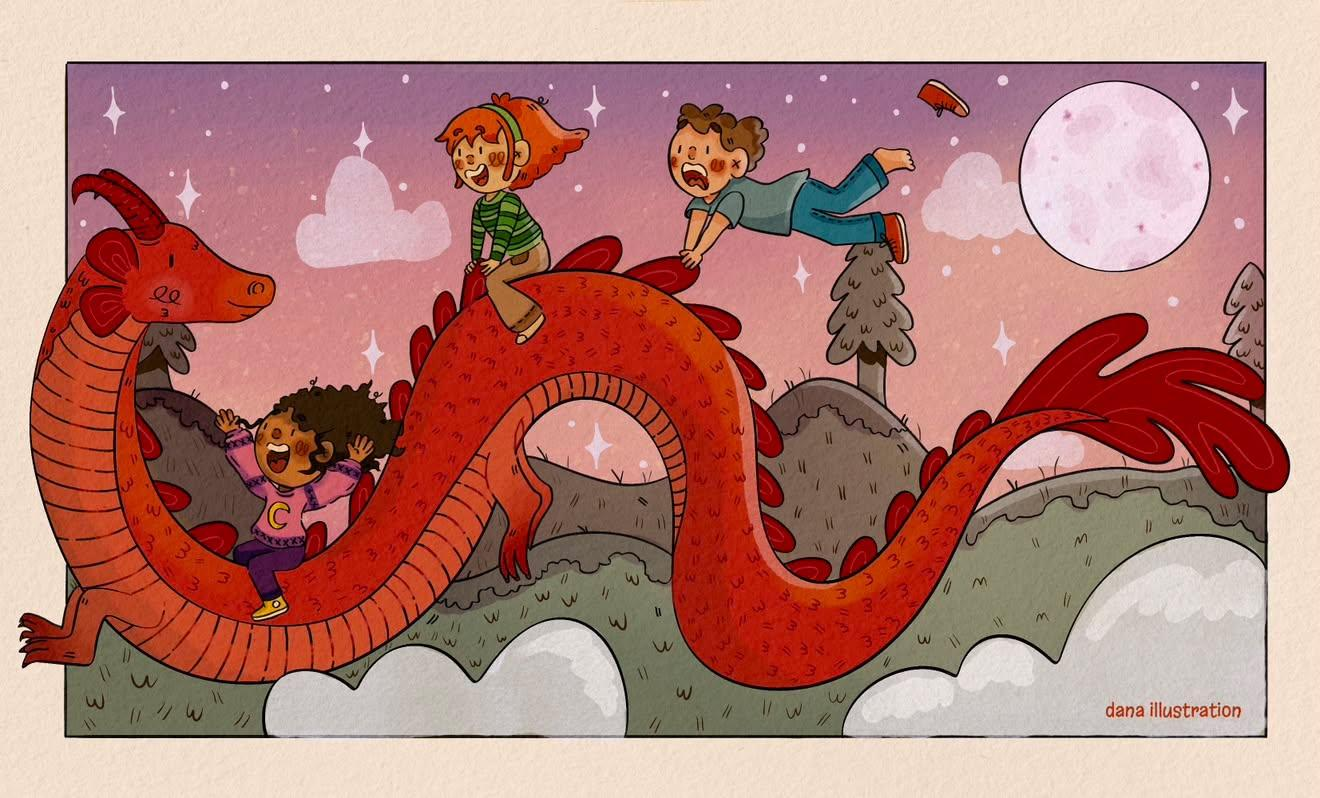
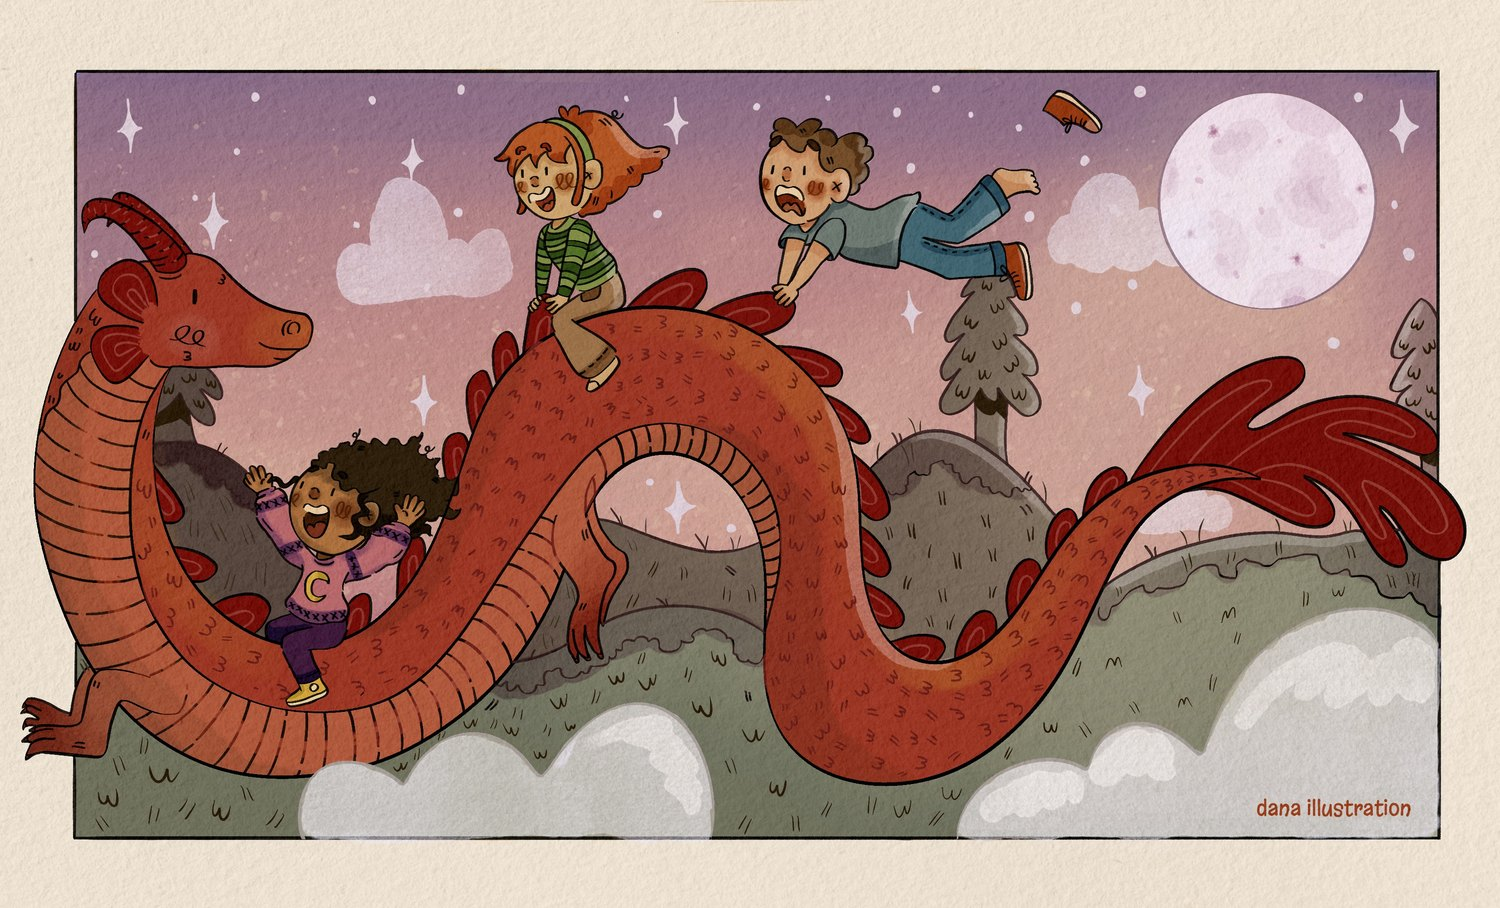
Galerie : 16 illustrations de Dana à la place des pages du portfolio (#61)
- Intègre les 16 œuvres envoyées : dragon, baleine, planche Patina,
  poissons de verre, Yéti, Mira (couverture et parade), heure du livre,
  tigre du temple, ours polaire, héron, cygne, messager sagittaire,
  Madao & Bond, Shadow et la carte d'anniversaire.
- Chaque tableau reçoit son titre et son texte de cadre.
- Les versions haute définition remplacent les anciennes du dragon, de
  la baleine et de la planche Patina, ainsi que les prints de la
  boutique qui servaient de bouche-trou.
- Les pages scannées du portfolio PDF sortent de la galerie et du
  portfolio ; le lien de téléchargement du PDF reste en place.
- Images redimensionnées à 1500 px et réenregistrées en JPEG progressif
  (aucune retouche du dessin), fichiers d'origine supprimés.

Claude-Session: https://claude.ai/code/session_01BtaB1jaWDtbsoScgb48y47

diff --git a/index.html b/index.html
@@ -18,7 +18,7 @@
   <link rel="preconnect" href="https://fonts.gstatic.com" crossorigin>
   <link href="https://fonts.googleapis.com/css2?family=Jost:wght@300;400;500;600&display=swap" rel="stylesheet">
   <link href="https://api.fontshare.com/v2/css?f%5B%5D=comico@400&display=swap" rel="stylesheet">
-  <link rel="stylesheet" href="styles.css?v=29">
+  <link rel="stylesheet" href="styles.css?v=30">
 </head>
 <body class="page-home">
 
@@ -90,41 +90,53 @@
 
     <div class="museum">
       <div class="museum-rooms">
-          <button class="artwork" type="button" data-title="Le vol du dragon" data-desc="Trois enfants chevauchent un immense dragon rouge au-dessus des montagnes, sous une lune rose. Une illustration sur le goût de l&#x27;aventure et le vertige joyeux des premières fois." data-full="photo/illu-dragon.jpg">
+          <button class="artwork" type="button" data-title="Le vol du dragon" data-desc="Trois enfants chevauchent un dragon rouge au-dessus des montagnes, sous une lune immense. L&#x27;un d&#x27;eux a déjà perdu une chaussure." data-full="photo/illu-dragon.jpg">
             <span class="artwork-frame"><img src="photo/illu-dragon.jpg" alt="Le vol du dragon" loading="lazy"></span>
           </button>
-          <button class="artwork" type="button" data-title="La baleine et le bateau" data-desc="Deux enfants saluent une baleine bleue qui bondit au-dessus de leur barque. Un instant suspendu entre le ciel et le monde du dessous, peuplé de poissons colorés." data-full="photo/illu-baleine.jpg">
-            <span class="artwork-frame"><img src="photo/illu-baleine.jpg" alt="La baleine et le bateau" loading="lazy"></span>
+          <button class="artwork" type="button" data-title="La baleine" data-desc="Deux enfants prennent la mer sur un petit bateau-maison. Une baleine bleue saute juste au-dessus d&#x27;eux, et ils n&#x27;en reviennent pas." data-full="photo/illu-baleine.jpg">
+            <span class="artwork-frame"><img src="photo/illu-baleine.jpg" alt="La baleine" loading="lazy"></span>
           </button>
-          <button class="artwork" type="button" data-title="Bienvenue à Patina" data-desc="Une planche de bande dessinée : l&#x27;arrivée dans un monde où la magie est partout, guidée par un étrange compagnon rouge." data-full="photo/illu-bd-patina.jpg">
+          <button class="artwork" type="button" data-title="Bienvenue à Patina" data-desc="Une planche de bande dessinée : deux voyageurs arrivent devant le portail de Patina, un monde où la magie est partout — et où il vaut mieux faire attention." data-full="photo/illu-bd-patina.jpg">
             <span class="artwork-frame"><img src="photo/illu-bd-patina.jpg" alt="Bienvenue à Patina" loading="lazy"></span>
           </button>
-          <button class="artwork" type="button" data-title="Le héron" data-desc="Un héron illustré à l&#x27;aquarelle, tout en verticalité et en douceur. Disponible en print dans la boutique." data-full="photo/shop/print-heron.jpg">
-            <span class="artwork-frame"><img src="photo/shop/print-heron.jpg" alt="Le héron" loading="lazy"></span>
+          <button class="artwork" type="button" data-title="Le monde des poissons de verre" data-desc="Couverture d&#x27;album jeunesse. Une petite fille s&#x27;accroche à la queue d&#x27;un poisson géant, dans un océan qui ressemble à un ciel." data-full="photo/illu-poissons-de-verre.jpg">
+            <span class="artwork-frame"><img src="photo/illu-poissons-de-verre.jpg" alt="Le monde des poissons de verre" loading="lazy"></span>
           </button>
-          <button class="artwork" type="button" data-title="Le cygne" data-desc="Un cygne aux lignes fines, dans une palette tendre. Disponible en print dans la boutique." data-full="photo/shop/print-cygne.jpg">
-            <span class="artwork-frame"><img src="photo/shop/print-cygne.jpg" alt="Le cygne" loading="lazy"></span>
+          <button class="artwork" type="button" data-title="À la recherche du Yéti" data-desc="Couverture d&#x27;album jeunesse. Pour beaucoup le yéti n&#x27;est qu&#x27;une légende — pas pour Perle et Charles, qui sont prêts à tout pour le prouver." data-full="photo/illu-yeti.jpg">
+            <span class="artwork-frame"><img src="photo/illu-yeti.jpg" alt="À la recherche du Yéti" loading="lazy"></span>
           </button>
-          <button class="artwork" type="button" data-title="Le canard" data-desc="Un canard tout rond, croqué avec humour et tendresse. Disponible en print dans la boutique." data-full="photo/shop/print-canard.jpg">
-            <span class="artwork-frame"><img src="photo/shop/print-canard.jpg" alt="Le canard" loading="lazy"></span>
+          <button class="artwork" type="button" data-title="Mira, à l&#x27;aventure" data-desc="Couverture d&#x27;album. Mira part en exploration avec son tigre, et rien ne semble pouvoir les arrêter." data-full="photo/illu-mira-aventure.jpg">
+            <span class="artwork-frame"><img src="photo/illu-mira-aventure.jpg" alt="Mira, à l&#x27;aventure" loading="lazy"></span>
           </button>
-          <button class="artwork" type="button" data-title="Le messager sagittaire" data-desc="Un oiseau élégant aux longues pattes, mon préféré à dessiner. Disponible en print dans la boutique." data-full="photo/shop/print-messager-sagittaire.jpg">
-            <span class="artwork-frame"><img src="photo/shop/print-messager-sagittaire.jpg" alt="Le messager sagittaire" loading="lazy"></span>
+          <button class="artwork" type="button" data-title="La parade" data-desc="Éléphant, guépard, ara, singe, manchot : toute la troupe suit Mira en file indienne sur la colline, au coucher du soleil." data-full="photo/illu-mira-parade.jpg">
+            <span class="artwork-frame"><img src="photo/illu-mira-parade.jpg" alt="La parade" loading="lazy"></span>
           </button>
-          <button class="artwork" type="button" data-title="Mira — character design" data-desc="Recherches de personnage : expressions, postures et variations autour de Mira." data-full="photo/portfolio-pages/portfolio-03.jpg">
-            <span class="artwork-frame"><img src="photo/portfolio-pages/portfolio-03.jpg" alt="Mira — character design" loading="lazy"></span>
+          <button class="artwork" type="button" data-title="L&#x27;heure du livre" data-desc="Une histoire lue à voix haute, et tout le monde s&#x27;installe pour écouter : l&#x27;ours, le tigre, le renard, le chat et l&#x27;âne." data-full="photo/illu-heure-du-livre.jpg">
+            <span class="artwork-frame"><img src="photo/illu-heure-du-livre.jpg" alt="L&#x27;heure du livre" loading="lazy"></span>
           </button>
-          <button class="artwork" type="button" data-title="Couvertures de livre" data-desc="Projets de couvertures pour la littérature jeunesse." data-full="photo/portfolio-pages/portfolio-04.jpg">
-            <span class="artwork-frame"><img src="photo/portfolio-pages/portfolio-04.jpg" alt="Couvertures de livre" loading="lazy"></span>
+          <button class="artwork" type="button" data-title="Le tigre du temple" data-desc="Un tigre descend boire au bassin d&#x27;un temple envahi par la jungle, entre les nénuphars et les pierres tièdes." data-full="photo/illu-tigre-temple.jpg">
+            <span class="artwork-frame"><img src="photo/illu-tigre-temple.jpg" alt="Le tigre du temple" loading="lazy"></span>
           </button>
-          <button class="artwork" type="button" data-title="Character design" data-desc="Une galerie de personnages, de la silhouette au détail." data-full="photo/portfolio-pages/portfolio-05.jpg">
-            <span class="artwork-frame"><img src="photo/portfolio-pages/portfolio-05.jpg" alt="Character design" loading="lazy"></span>
+          <button class="artwork" type="button" data-title="Sous les étoiles" data-desc="Une ourse polaire veille sur ses deux petits, blottis contre elle, sous un ciel de nuit qui tourbillonne de lumières." data-full="photo/illu-ours-polaire.jpg">
+            <span class="artwork-frame"><img src="photo/illu-ours-polaire.jpg" alt="Sous les étoiles" loading="lazy"></span>
           </button>
-          <button class="artwork" type="button" data-title="Bestiaire" data-desc="Des animaux du monde entier, observés et réinventés." data-full="photo/portfolio-pages/portfolio-06.jpg">
-            <span class="artwork-frame"><img src="photo/portfolio-pages/portfolio-06.jpg" alt="Bestiaire" loading="lazy"></span>
+          <button class="artwork" type="button" data-title="Le héron" data-desc="Ailes déployées devant un soleil vert, tout en rose et en carmin. Disponible en print dans la boutique." data-full="photo/illu-heron.jpg">
+            <span class="artwork-frame"><img src="photo/illu-heron.jpg" alt="Le héron" loading="lazy"></span>
           </button>
-          <button class="artwork" type="button" data-title="Double page" data-desc="Une scène en pleine largeur, pensée pour un album illustré." data-full="photo/portfolio-pages/portfolio-07.jpg">
-            <span class="artwork-frame"><img src="photo/portfolio-pages/portfolio-07.jpg" alt="Double page" loading="lazy"></span>
+          <button class="artwork" type="button" data-title="Le cygne" data-desc="Un cygne crème sur un ciel bleu tourbillonnant, les ailes ouvertes bien au-delà du cadre. Disponible en print dans la boutique." data-full="photo/illu-cygne.jpg">
+            <span class="artwork-frame"><img src="photo/illu-cygne.jpg" alt="Le cygne" loading="lazy"></span>
+          </button>
+          <button class="artwork" type="button" data-title="Le messager sagittaire" data-desc="Ailes déployées sur un fond d&#x27;or tourbillonnant, la huppe au vent. Disponible en print dans la boutique." data-full="photo/illu-messager-sagittaire.jpg">
+            <span class="artwork-frame"><img src="photo/illu-messager-sagittaire.jpg" alt="Le messager sagittaire" loading="lazy"></span>
+          </button>
+          <button class="artwork" type="button" data-title="Madao &amp; Bond" data-desc="Portrait de deux compagnons, réalisé sur commande d&#x27;après les photos de leur famille." data-full="photo/illu-madao-bond.jpg">
+            <span class="artwork-frame"><img src="photo/illu-madao-bond.jpg" alt="Madao &amp; Bond" loading="lazy"></span>
+          </button>
+          <button class="artwork" type="button" data-title="Shadow" data-desc="Portrait sur commande d&#x27;un bouledogue et de ses trésors : son ballon et sa peluche verte." data-full="photo/illu-shadow.jpg">
+            <span class="artwork-frame"><img src="photo/illu-shadow.jpg" alt="Shadow" loading="lazy"></span>
+          </button>
+          <button class="artwork" type="button" data-title="Un anniversaire au poil" data-desc="Une carte d&#x27;anniversaire : un teckel s&#x27;envole accroché à une grappe de ballons, sous le regard admiratif de son ami resté au sol." data-full="photo/illu-anniversaire.jpg">
+            <span class="artwork-frame"><img src="photo/illu-anniversaire.jpg" alt="Un anniversaire au poil" loading="lazy"></span>
           </button>
       </div>
       <div class="museum-ground">
@@ -185,7 +197,7 @@
     </div>
   </footer>
 
-  <script src="script.js?v=29" defer></script>
+  <script src="script.js?v=30" defer></script>
 
 </body>
 </html>

diff --git a/portfolio.html b/portfolio.html
@@ -12,13 +12,13 @@
   <meta property="og:title" content="Portfolio · Dana Illustration">
   <meta property="og:description" content="Le portfolio de Dana Illustration : albums, character design et illustrations personnelles dans un univers doux et coloré.">
   <meta property="og:url" content="https://danaillustration.be/portfolio.html">
-  <meta property="og:image" content="https://danaillustration.be/photo/portfolio-pages/portfolio-01.jpg">
+  <meta property="og:image" content="https://danaillustration.be/photo/illu-poissons-de-verre.jpg">
   <meta name="twitter:card" content="summary_large_image">
   <link rel="preconnect" href="https://fonts.googleapis.com">
   <link rel="preconnect" href="https://fonts.gstatic.com" crossorigin>
   <link href="https://fonts.googleapis.com/css2?family=Jost:wght@300;400;500;600&display=swap" rel="stylesheet">
   <link href="https://api.fontshare.com/v2/css?f%5B%5D=comico@400&display=swap" rel="stylesheet">
-  <link rel="stylesheet" href="styles.css?v=29">
+  <link rel="stylesheet" href="styles.css?v=30">
 </head>
 <body class="page-portfolio">
 
@@ -57,20 +57,22 @@
 
   <section class="portfolio-full">
     <div class="portfolio-grid">
-      <a class="portfolio-item" href="photo/illu-dragon.jpg" target="_blank" rel="noopener"><img src="photo/illu-dragon.jpg" alt="Trois enfants chevauchant un grand dragon rouge sous la lune" loading="lazy"></a>
-      <a class="portfolio-item" href="photo/illu-baleine.jpg" target="_blank" rel="noopener"><img src="photo/illu-baleine.jpg" alt="Deux enfants en bateau regardant une baleine bondir hors de l'eau" loading="lazy"></a>
-      <a class="portfolio-item" href="photo/illu-bd-patina.jpg" target="_blank" rel="noopener"><img src="photo/illu-bd-patina.jpg" alt="Planche de bande dessinée — Bienvenue à Patina" loading="lazy"></a>
-      <a class="portfolio-item" href="portfolio.pdf" target="_blank" rel="noopener"><img src="photo/portfolio-pages/portfolio-01.jpg" alt="Portfolio Dana Leriche — couverture" loading="lazy"></a>
-      <a class="portfolio-item" href="portfolio.pdf" target="_blank" rel="noopener"><img src="photo/portfolio-pages/portfolio-02.jpg" alt="Portfolio Dana Leriche — à propos" loading="lazy"></a>
-      <a class="portfolio-item" href="portfolio.pdf" target="_blank" rel="noopener"><img src="photo/portfolio-pages/portfolio-03.jpg" alt="Portfolio Dana Leriche — Mira, character design" loading="lazy"></a>
-      <a class="portfolio-item" href="portfolio.pdf" target="_blank" rel="noopener"><img src="photo/portfolio-pages/portfolio-04.jpg" alt="Portfolio Dana Leriche — couvertures de livre" loading="lazy"></a>
-      <a class="portfolio-item" href="portfolio.pdf" target="_blank" rel="noopener"><img src="photo/portfolio-pages/portfolio-05.jpg" alt="Portfolio Dana Leriche — character design" loading="lazy"></a>
-      <a class="portfolio-item" href="portfolio.pdf" target="_blank" rel="noopener"><img src="photo/portfolio-pages/portfolio-06.jpg" alt="Portfolio Dana Leriche — animaux" loading="lazy"></a>
-      <a class="portfolio-item" href="portfolio.pdf" target="_blank" rel="noopener"><img src="photo/portfolio-pages/portfolio-07.jpg" alt="Portfolio Dana Leriche — doubles-pages" loading="lazy"></a>
-      <a class="portfolio-item" href="portfolio.pdf" target="_blank" rel="noopener"><img src="photo/portfolio-pages/portfolio-08.jpg" alt="Portfolio Dana Leriche — doubles-pages" loading="lazy"></a>
-      <a class="portfolio-item" href="portfolio.pdf" target="_blank" rel="noopener"><img src="photo/portfolio-pages/portfolio-09.jpg" alt="Portfolio Dana Leriche — projets personnels" loading="lazy"></a>
-      <a class="portfolio-item" href="portfolio.pdf" target="_blank" rel="noopener"><img src="photo/portfolio-pages/portfolio-10.jpg" alt="Portfolio Dana Leriche — projets personnels" loading="lazy"></a>
-      <a class="portfolio-item" href="portfolio.pdf" target="_blank" rel="noopener"><img src="photo/portfolio-pages/portfolio-11.jpg" alt="Portfolio Dana Leriche — merci" loading="lazy"></a>
+      <a class="portfolio-item" href="photo/illu-dragon.jpg" target="_blank" rel="noopener"><img src="photo/illu-dragon.jpg" alt="Le vol du dragon" loading="lazy"></a>
+      <a class="portfolio-item" href="photo/illu-baleine.jpg" target="_blank" rel="noopener"><img src="photo/illu-baleine.jpg" alt="La baleine" loading="lazy"></a>
+      <a class="portfolio-item" href="photo/illu-bd-patina.jpg" target="_blank" rel="noopener"><img src="photo/illu-bd-patina.jpg" alt="Bienvenue à Patina" loading="lazy"></a>
+      <a class="portfolio-item" href="photo/illu-poissons-de-verre.jpg" target="_blank" rel="noopener"><img src="photo/illu-poissons-de-verre.jpg" alt="Le monde des poissons de verre" loading="lazy"></a>
+      <a class="portfolio-item" href="photo/illu-yeti.jpg" target="_blank" rel="noopener"><img src="photo/illu-yeti.jpg" alt="À la recherche du Yéti" loading="lazy"></a>
+      <a class="portfolio-item" href="photo/illu-mira-aventure.jpg" target="_blank" rel="noopener"><img src="photo/illu-mira-aventure.jpg" alt="Mira, à l'aventure" loading="lazy"></a>
+      <a class="portfolio-item" href="photo/illu-mira-parade.jpg" target="_blank" rel="noopener"><img src="photo/illu-mira-parade.jpg" alt="La parade" loading="lazy"></a>
+      <a class="portfolio-item" href="photo/illu-heure-du-livre.jpg" target="_blank" rel="noopener"><img src="photo/illu-heure-du-livre.jpg" alt="L'heure du livre" loading="lazy"></a>
+      <a class="portfolio-item" href="photo/illu-tigre-temple.jpg" target="_blank" rel="noopener"><img src="photo/illu-tigre-temple.jpg" alt="Le tigre du temple" loading="lazy"></a>
+      <a class="portfolio-item" href="photo/illu-ours-polaire.jpg" target="_blank" rel="noopener"><img src="photo/illu-ours-polaire.jpg" alt="Sous les étoiles" loading="lazy"></a>
+      <a class="portfolio-item" href="photo/illu-heron.jpg" target="_blank" rel="noopener"><img src="photo/illu-heron.jpg" alt="Le héron" loading="lazy"></a>
+      <a class="portfolio-item" href="photo/illu-cygne.jpg" target="_blank" rel="noopener"><img src="photo/illu-cygne.jpg" alt="Le cygne" loading="lazy"></a>
+      <a class="portfolio-item" href="photo/illu-messager-sagittaire.jpg" target="_blank" rel="noopener"><img src="photo/illu-messager-sagittaire.jpg" alt="Le messager sagittaire" loading="lazy"></a>
+      <a class="portfolio-item" href="photo/illu-madao-bond.jpg" target="_blank" rel="noopener"><img src="photo/illu-madao-bond.jpg" alt="Madao &amp; Bond" loading="lazy"></a>
+      <a class="portfolio-item" href="photo/illu-shadow.jpg" target="_blank" rel="noopener"><img src="photo/illu-shadow.jpg" alt="Shadow" loading="lazy"></a>
+      <a class="portfolio-item" href="photo/illu-anniversaire.jpg" target="_blank" rel="noopener"><img src="photo/illu-anniversaire.jpg" alt="Un anniversaire au poil" loading="lazy"></a>
     </div>
     <div class="section-cta">
       <a class="btn btn-pill" href="portfolio.pdf" target="_blank" rel="noopener">Télécharger le portfolio (PDF)</a>
@@ -83,7 +85,7 @@
     </div>
   </footer>
 
-  <script src="script.js?v=29" defer></script>
+  <script src="script.js?v=30" defer></script>
 
 </body>
 </html>

diff --git a/commandes.html b/commandes.html
@@ -18,7 +18,7 @@
   <link rel="preconnect" href="https://fonts.gstatic.com" crossorigin>
   <link href="https://fonts.googleapis.com/css2?family=Jost:wght@300;400;500;600&display=swap" rel="stylesheet">
   <link href="https://api.fontshare.com/v2/css?f%5B%5D=comico@400&display=swap" rel="stylesheet">
-  <link rel="stylesheet" href="styles.css?v=29">
+  <link rel="stylesheet" href="styles.css?v=30">
 </head>
 <body class="page-commandes">
 
@@ -101,7 +101,7 @@
     </div>
   </footer>
 
-  <script src="script.js?v=29" defer></script>
+  <script src="script.js?v=30" defer></script>
 
 </body>
 </html>

diff --git a/ateliers.html b/ateliers.html
@@ -18,7 +18,7 @@
   <link rel="preconnect" href="https://fonts.gstatic.com" crossorigin>
   <link href="https://fonts.googleapis.com/css2?family=Jost:wght@300;400;500;600&display=swap" rel="stylesheet">
   <link href="https://api.fontshare.com/v2/css?f%5B%5D=comico@400&display=swap" rel="stylesheet">
-  <link rel="stylesheet" href="styles.css?v=29">
+  <link rel="stylesheet" href="styles.css?v=30">
 </head>
 <body class="page-ateliers">
 
@@ -101,7 +101,7 @@
     </div>
   </footer>
 
-  <script src="script.js?v=29" defer></script>
+  <script src="script.js?v=30" defer></script>
 
 </body>
 </html>

diff --git a/mail-club.html b/mail-club.html
@@ -18,7 +18,7 @@
   <link rel="preconnect" href="https://fonts.gstatic.com" crossorigin>
   <link href="https://fonts.googleapis.com/css2?family=Jost:wght@300;400;500;600&display=swap" rel="stylesheet">
   <link href="https://api.fontshare.com/v2/css?f%5B%5D=comico@400&display=swap" rel="stylesheet">
-  <link rel="stylesheet" href="styles.css?v=29">
+  <link rel="stylesheet" href="styles.css?v=30">
 </head>
 <body class="page-mailclub">
 
@@ -101,7 +101,7 @@
     </div>
   </footer>
 
-  <script src="script.js?v=29" defer></script>
+  <script src="script.js?v=30" defer></script>
 
 </body>
 </html>

diff --git a/apropos.html b/apropos.html
@@ -18,7 +18,7 @@
   <link rel="preconnect" href="https://fonts.gstatic.com" crossorigin>
   <link href="https://fonts.googleapis.com/css2?family=Jost:wght@300;400;500;600&display=swap" rel="stylesheet">
   <link href="https://api.fontshare.com/v2/css?f%5B%5D=comico@400&display=swap" rel="stylesheet">
-  <link rel="stylesheet" href="styles.css?v=29">
+  <link rel="stylesheet" href="styles.css?v=30">
 </head>
 <body class="page-apropos">
 
@@ -100,7 +100,7 @@
     </div>
   </footer>
 
-  <script src="script.js?v=29" defer></script>
+  <script src="script.js?v=30" defer></script>
 
 </body>
 </html>

diff --git a/boutique.html b/boutique.html
@@ -18,7 +18,7 @@
   <link rel="preconnect" href="https://fonts.gstatic.com" crossorigin>
   <link href="https://fonts.googleapis.com/css2?family=Jost:wght@300;400;500;600&display=swap" rel="stylesheet">
   <link href="https://api.fontshare.com/v2/css?f%5B%5D=comico@400&display=swap" rel="stylesheet">
-  <link rel="stylesheet" href="styles.css?v=29">
+  <link rel="stylesheet" href="styles.css?v=30">
 </head>
 <body class="page-boutique">
 
@@ -65,7 +65,7 @@
     </div>
   </footer>
 
-  <script src="script.js?v=29" defer></script>
+  <script src="script.js?v=30" defer></script>
 
 </body>
 </html>

diff --git a/cgv.html b/cgv.html
@@ -18,7 +18,7 @@
   <link rel="preconnect" href="https://fonts.gstatic.com" crossorigin>
   <link href="https://fonts.googleapis.com/css2?family=Jost:wght@300;400;500;600&display=swap" rel="stylesheet">
   <link href="https://api.fontshare.com/v2/css?f%5B%5D=comico@400&display=swap" rel="stylesheet">
-  <link rel="stylesheet" href="styles.css?v=29">
+  <link rel="stylesheet" href="styles.css?v=30">
 </head>
 <body class="page-legal">
 
@@ -90,7 +90,7 @@
     </div>
   </footer>
 
-  <script src="script.js?v=29" defer></script>
+  <script src="script.js?v=30" defer></script>
 
 </body>
 </html>

diff --git a/confidentialite.html b/confidentialite.html
@@ -18,7 +18,7 @@
   <link rel="preconnect" href="https://fonts.gstatic.com" crossorigin>
   <link href="https://fonts.googleapis.com/css2?family=Jost:wght@300;400;500;600&display=swap" rel="stylesheet">
   <link href="https://api.fontshare.com/v2/css?f%5B%5D=comico@400&display=swap" rel="stylesheet">
-  <link rel="stylesheet" href="styles.css?v=29">
+  <link rel="stylesheet" href="styles.css?v=30">
 </head>
 <body class="page-legal">
 
@@ -88,7 +88,7 @@
     </div>
   </footer>
 
-  <script src="script.js?v=29" defer></script>
+  <script src="script.js?v=30" defer></script>
 
 </body>
 </html>

diff --git a/mentions-legales.html b/mentions-legales.html
@@ -18,7 +18,7 @@
   <link rel="preconnect" href="https://fonts.gstatic.com" crossorigin>
   <link href="https://fonts.googleapis.com/css2?family=Jost:wght@300;400;500;600&display=swap" rel="stylesheet">
   <link href="https://api.fontshare.com/v2/css?f%5B%5D=comico@400&display=swap" rel="stylesheet">
-  <link rel="stylesheet" href="styles.css?v=29">
+  <link rel="stylesheet" href="styles.css?v=30">
 </head>
 <body class="page-legal">
 
@@ -83,7 +83,7 @@
     </div>
   </footer>
 
-  <script src="script.js?v=29" defer></script>
+  <script src="script.js?v=30" defer></script>
 
 </body>
 </html>

diff --git a/retours.html b/retours.html
@@ -18,7 +18,7 @@
   <link rel="preconnect" href="https://fonts.gstatic.com" crossorigin>
   <link href="https://fonts.googleapis.com/css2?family=Jost:wght@300;400;500;600&display=swap" rel="stylesheet">
   <link href="https://api.fontshare.com/v2/css?f%5B%5D=comico@400&display=swap" rel="stylesheet">
-  <link rel="stylesheet" href="styles.css?v=29">
+  <link rel="stylesheet" href="styles.css?v=30">
 </head>
 <body class="page-legal">
 
@@ -75,7 +75,7 @@
     </div>
   </footer>
 
-  <script src="script.js?v=29" defer></script>
+  <script src="script.js?v=30" defer></script>
 
 </body>
 </html>
